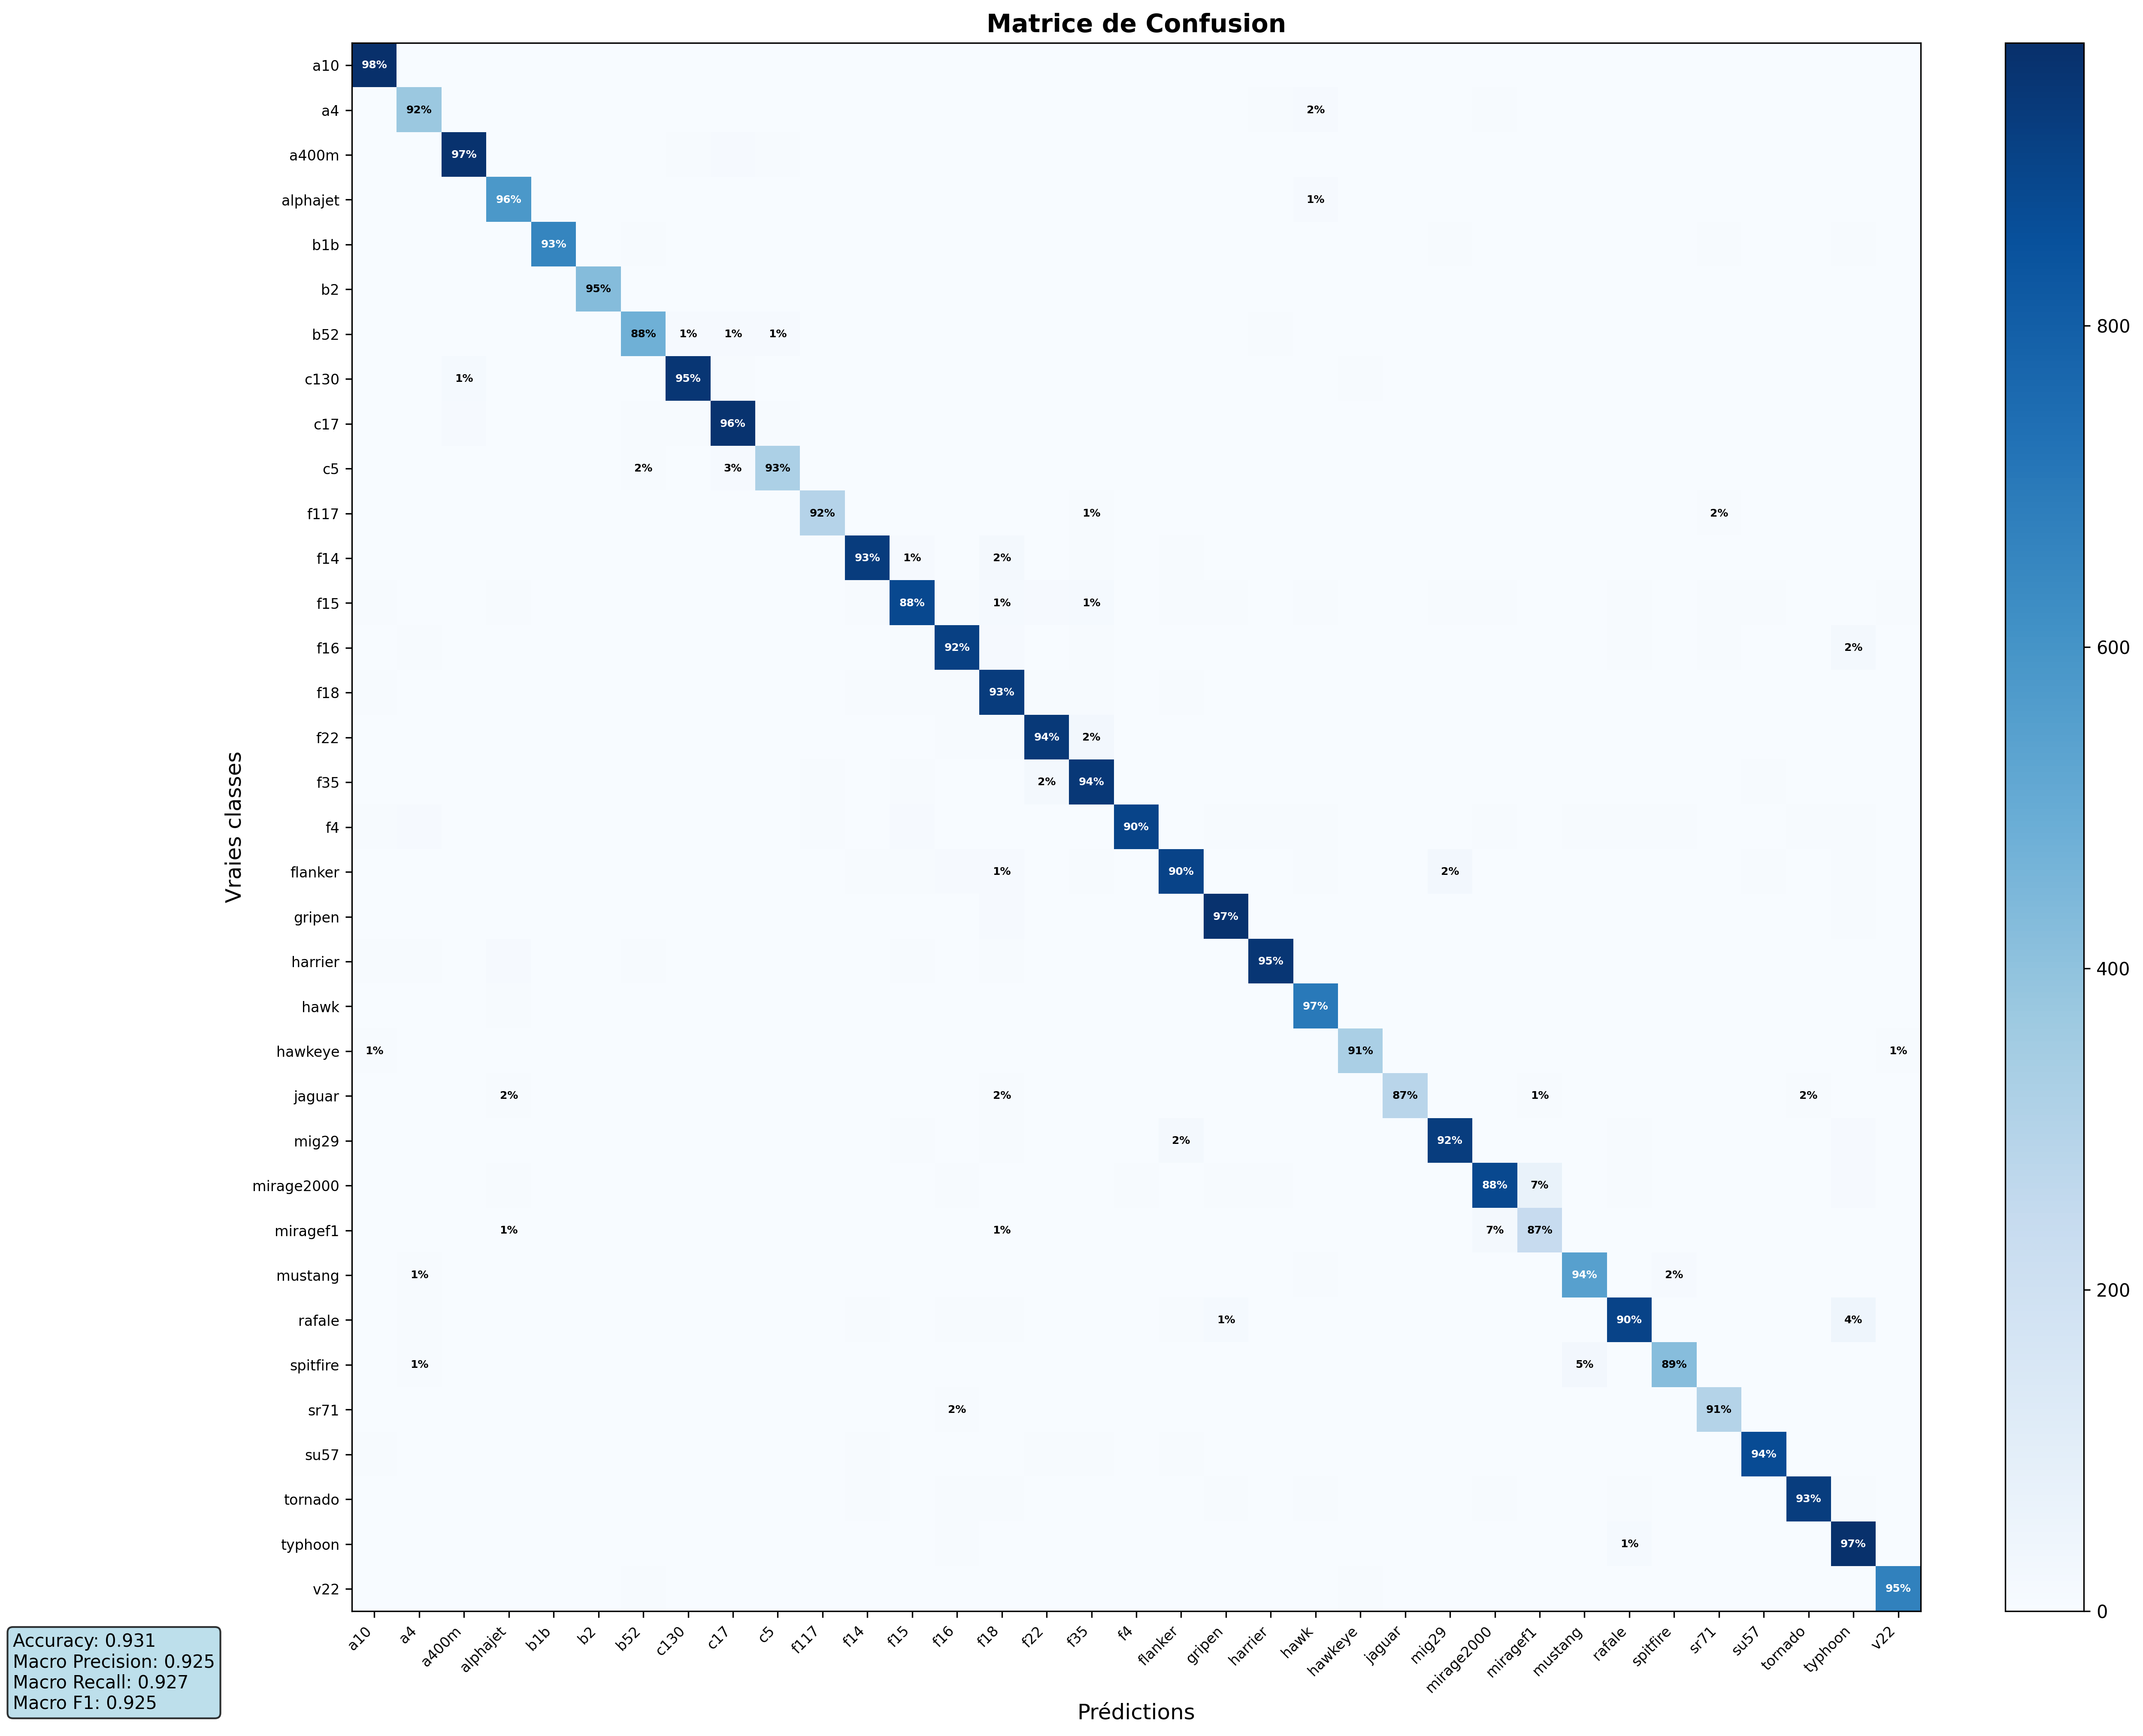
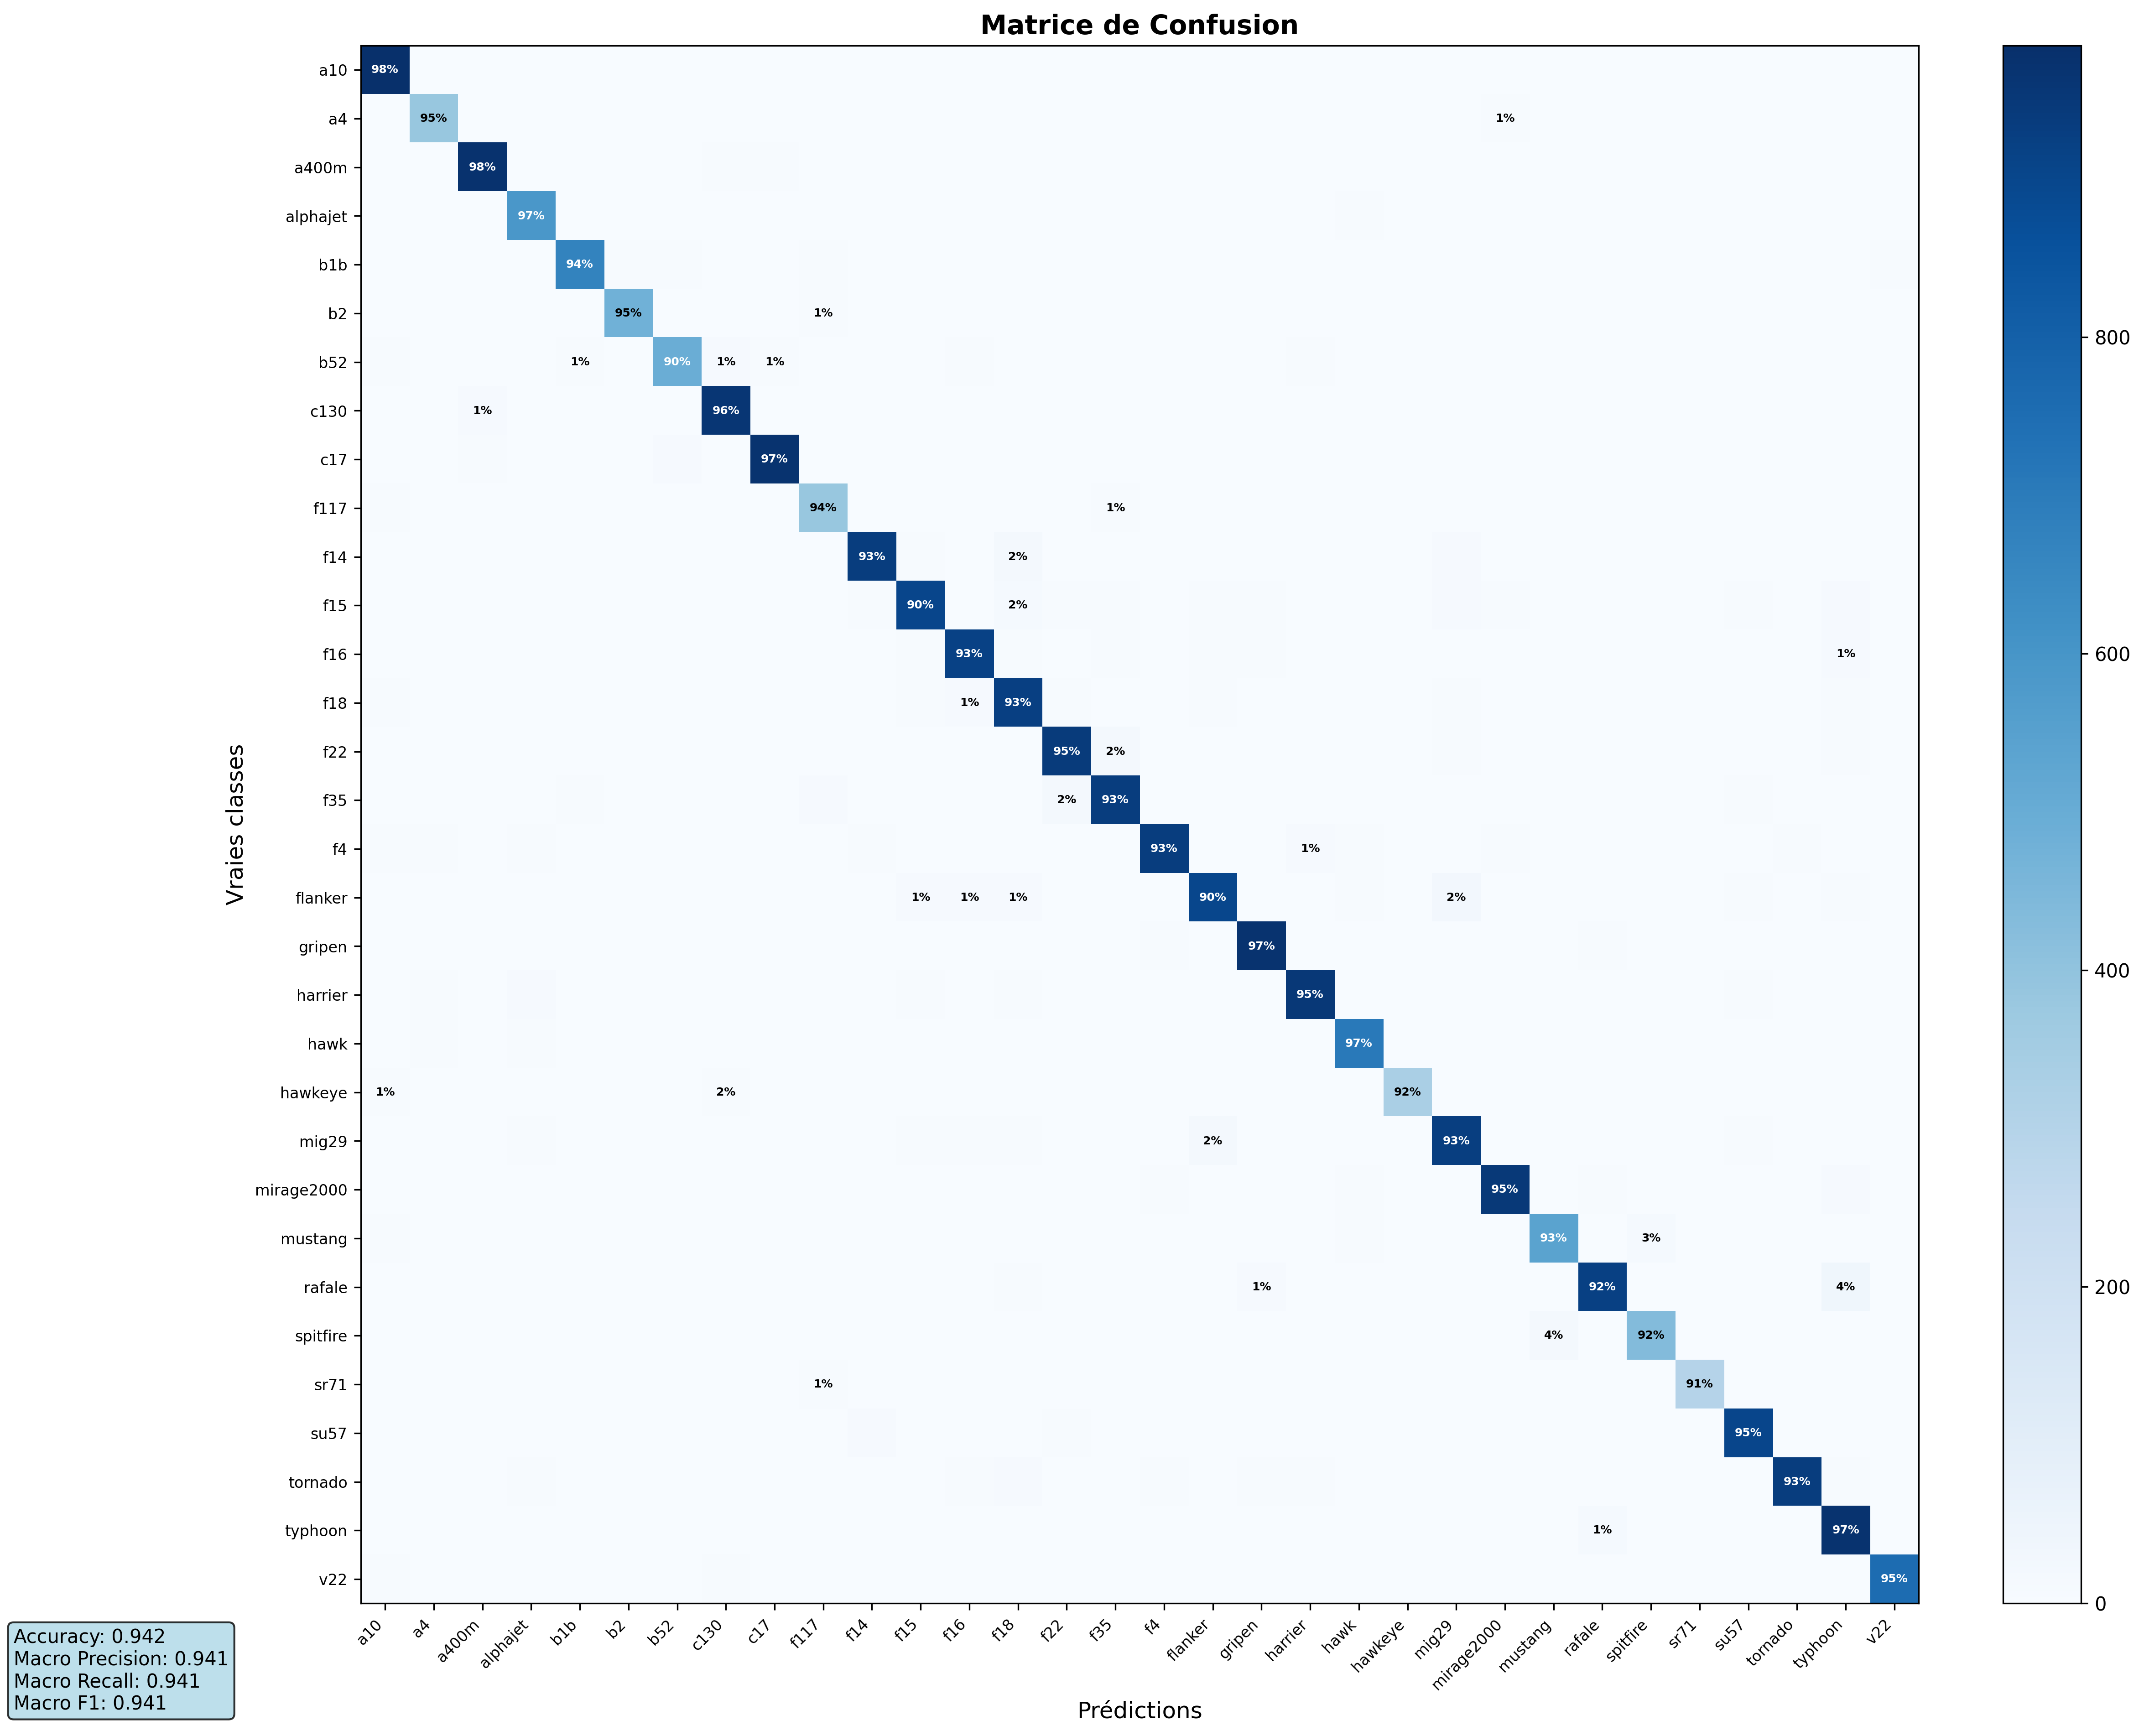
modifi param translation_factor, zoom_factor, brightness_delta, bce_weight, dice_weight before testing FULL dataset

diff --git a/dataset_configs.py b/dataset_configs.py
@@ -39,8 +39,8 @@ DATASET_CONFIGS = {
     "FIGHTERJET_CLASSIFICATION": {
         # === CONFIG OPTIMALE CNN 128×128 GRAYSCALE STRETCHED ===
         # === Données ===
-        "num_classes": 35,
-        "class_names": ['a10', 'a4', 'a400m', 'alphajet', 'b1b', 'b2', 'b52', 'c130', 'c17', 'c5', 'f117', 'f14', 'f15', 'f16', 'f18', 'f22', 'f35', 'f4', 'flanker', 'gripen', 'harrier', 'hawk', 'hawkeye', 'jaguar', 'mig29', 'mirage2000', 'miragef1', 'mustang', 'rafale', 'spitfire', 'sr71', 'su57', 'tornado', 'typhoon', 'v22'],
+        "num_classes": 32,
+        "class_names": ['a10', 'a4', 'a400m', 'alphajet', 'b1b', 'b2', 'b52', 'c130', 'c17', 'f117', 'f14', 'f15', 'f16', 'f18', 'f22', 'f35', 'f4', 'flanker', 'gripen', 'harrier', 'hawk', 'hawkeye', 'mig29', 'mirage2000', 'mustang', 'rafale', 'spitfire', 'sr71', 'su57', 'tornado', 'typhoon', 'v22'],
         "data_dir": "/home/aobled/Downloads/_balanced_dataset_split",
         "output_prefix": "./data/chunks/classification/dataset_classification",
         "chunk_size": 28000,
@@ -341,9 +341,9 @@ DATASET_CONFIGS = {
             "flip_h": True,
             "flip_v": True,
             "rotation_factor": 0.0,
-            "zoom_factor": 0.25,          # ±25% (était 20%) : Pour apprendre le multi-échelles
-            "translation_factor": 0.15,   # Shifting ±15% (était 10%) : Désaxer les cibles
-            "brightness_delta": 0.30,     # Beaucoup plus agressif (casser la dominante ciel gris clair)
+            "zoom_factor": 0.35,          # ±25% (était 20%) : Pour apprendre le multi-échelles
+            "translation_factor": 0.25,   # Shifting ±15% (était 10%) : Désaxer les cibles
+            "brightness_delta": 0.15,     # Beaucoup plus agressif (casser la dominante ciel gris clair)
             "contrast_factor": 0.30       # Très agressif (simule contre-jour et nuages sombres)
         },
         
@@ -353,8 +353,8 @@ DATASET_CONFIGS = {
         "grid_size": 224,      # Segmentation sémantique (output size = input size)
         "loss_method": "segmentation",
         "loss_params": {
-            "bce_weight": 0.5,
-            "dice_weight": 0.5,
+            "bce_weight": 0.3,
+            "dice_weight": 0.7,
             "false_positive_penalty": 2.0
         },
 

diff --git a/bounding_boxes_with_classification_from_video_generation.py b/bounding_boxes_with_classification_from_video_generation.py
@@ -44,10 +44,10 @@ FRAME_STRIDE = 1  # 1 = toutes les frames
 DETECTION_CONF_THRESHOLD = 0.8          # Seuil pour considérer une détection valide (objectness + class) target 0.6
 BATCH_SIZE = 32                         # Taille du batch d'images pour la détection
 
-#VIDEO_PATH = "/home/aobled/Downloads/testvid.mp4"
-VIDEO_PATH = "/media/aobled/Elements/Python/videos/A-10, P-51, F-35, F-22 Oshkosh 2019.mp4"
-#TARGET_CLASS_LIST = ["f15", "f22", "b1b", "b2", "b52", "a10", "f16"]
-TARGET_CLASS_LIST = ["c130", "a10", "mustang", "f35", "f22"]
+VIDEO_PATH = "/home/aobled/Downloads/testvid.mp4"
+#VIDEO_PATH = "/home/aobled/Downloads/topgun-01.mp4"
+TARGET_CLASS_LIST = ["f15", "f22", "b1b", "b2", "b52", "a10", "f16"]
+#TARGET_CLASS_LIST = ["f14"]
 
 # 3. Chargement de la config dataset
 try:

diff --git a/tools/bounding_boxes_with_classification_from_images_generation.py b/tools/bounding_boxes_with_classification_from_images_generation.py
@@ -29,7 +29,7 @@ from model_library import get_model  # Uniquement get_model (pas besoin de la cl
 DATASET_NAME = "FIGHTERJET_CLASSIFICATION"     # Nom de la config dans dataset_configs.py
 CHECKPOINT_PATH = "best_model.pkl"      # Chemin vers le modèle de CLASSIFICATION
 INPUT_DIR = "/home/aobled/Downloads/tmp_multi"  # Dossier d'entrée (images à traiter)
-CONFIDENCE_THRESHOLD = 0.8            # Seuil de confiance pour valider une CLASSIFICATION bet 0.96
+CONFIDENCE_THRESHOLD = 0.6            # Seuil de confiance pour valider une CLASSIFICATION bet 0.96
 
 # 2. Configuration du modèle de détection
 DETECTION_CHECKPOINT_PATH = "best_model_detection.pkl" # Chemin vers le modèle de DÉTECTION
@@ -40,7 +40,7 @@ DETECTION_CONF_THRESHOLD = 0.8          # Seuil pour considérer une détection 
 BOX_AERA_MIN = 60
 NMS_THRESHOLD = 0.4
 
-DEFAULT_CLASSE = "sr71"
+DEFAULT_CLASSE = "unknown"
 
 # 3. Chargement de la config dataset
 try:

diff --git a/tools/boxes_process_manual_tkinter.py b/tools/boxes_process_manual_tkinter.py
@@ -1276,7 +1276,7 @@ CROP_HEIGHT = 1  # Hauteur en pixels à croper (0 = désactivé)
 AUTO_CROP = False  # Croper automatiquement lors de la sauvegarde (touche 's')
 CATEGORY_NAME = 'unknown'
 if __name__ == "__main__":
-    root_folder = "/home/aobled/Downloads/tmp_multi"
+    root_folder = "/home/aobled/Downloads/tmp_multi/"
     viewer = PhotoViewer(root_folder, category_name=CATEGORY_NAME, crop_height=CROP_HEIGHT, auto_crop=AUTO_CROP)
 
 

diff --git a/tools/reporting_dataset_pandas.py b/tools/reporting_dataset_pandas.py
@@ -264,5 +264,5 @@ reporting_groupby_box_count(df)
 #reporting_at_least_one_box_not_in_class_list(df, class_list=CLASS_NAMES)
 
 #reporting_single_classe_images(df, target_class='f8', min_size=16)
-reporting_all_images_in_class_list(df, class_list=['f117'])
+#reporting_all_images_in_class_list(df, class_list=['c5'])
 #reporting_small_boxes(df, min_size=16)